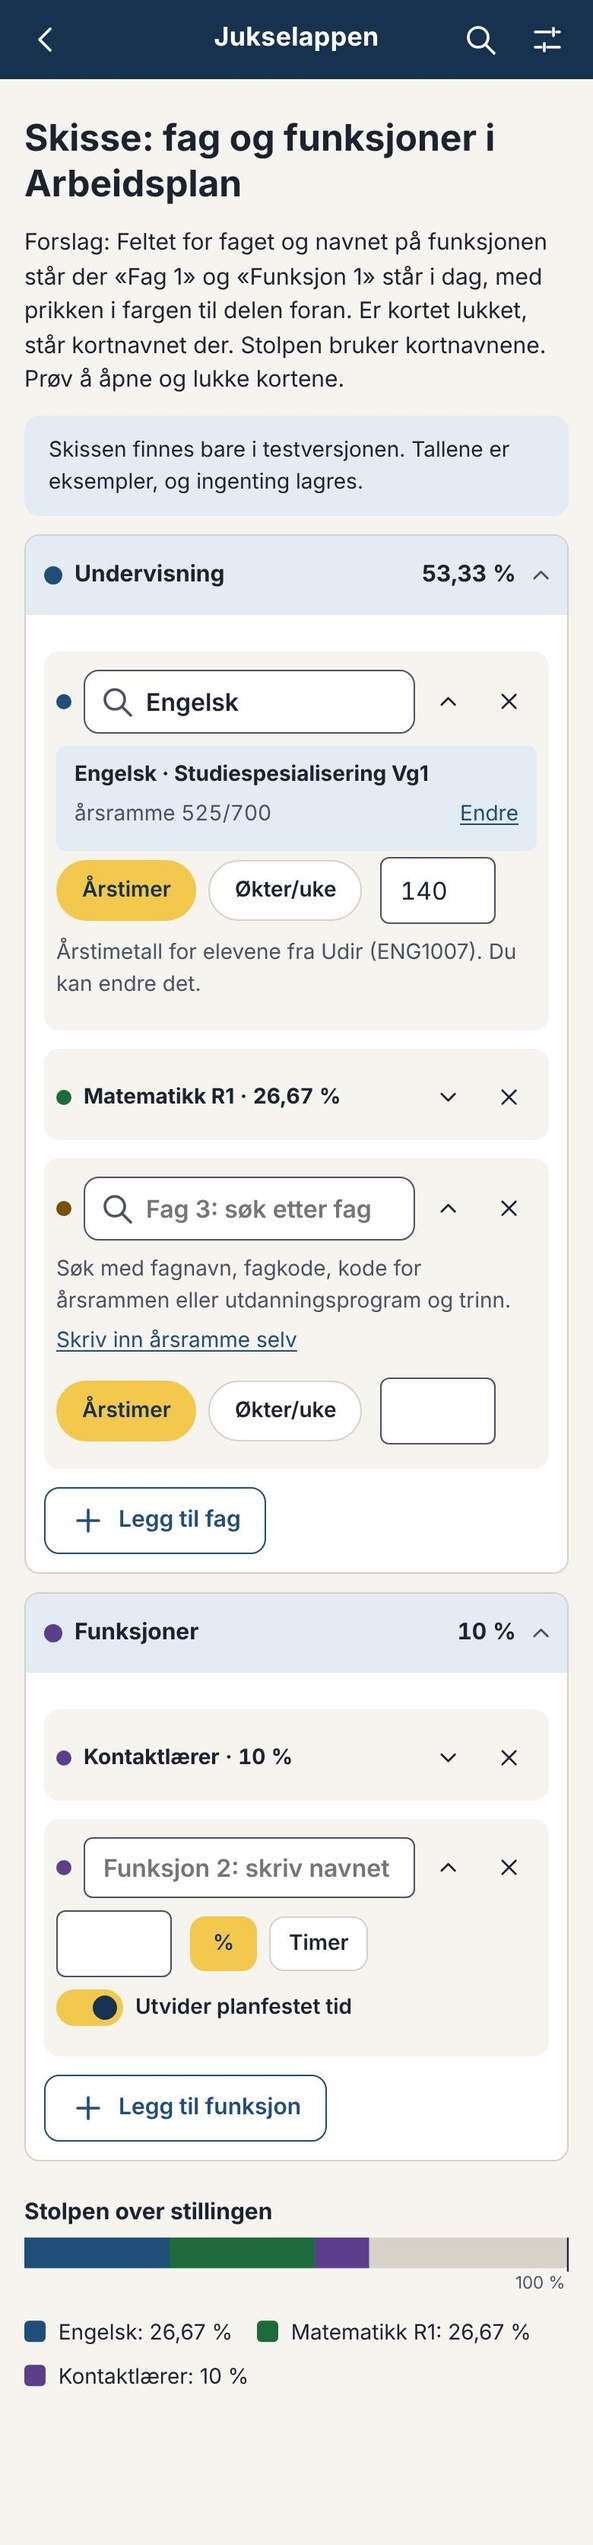
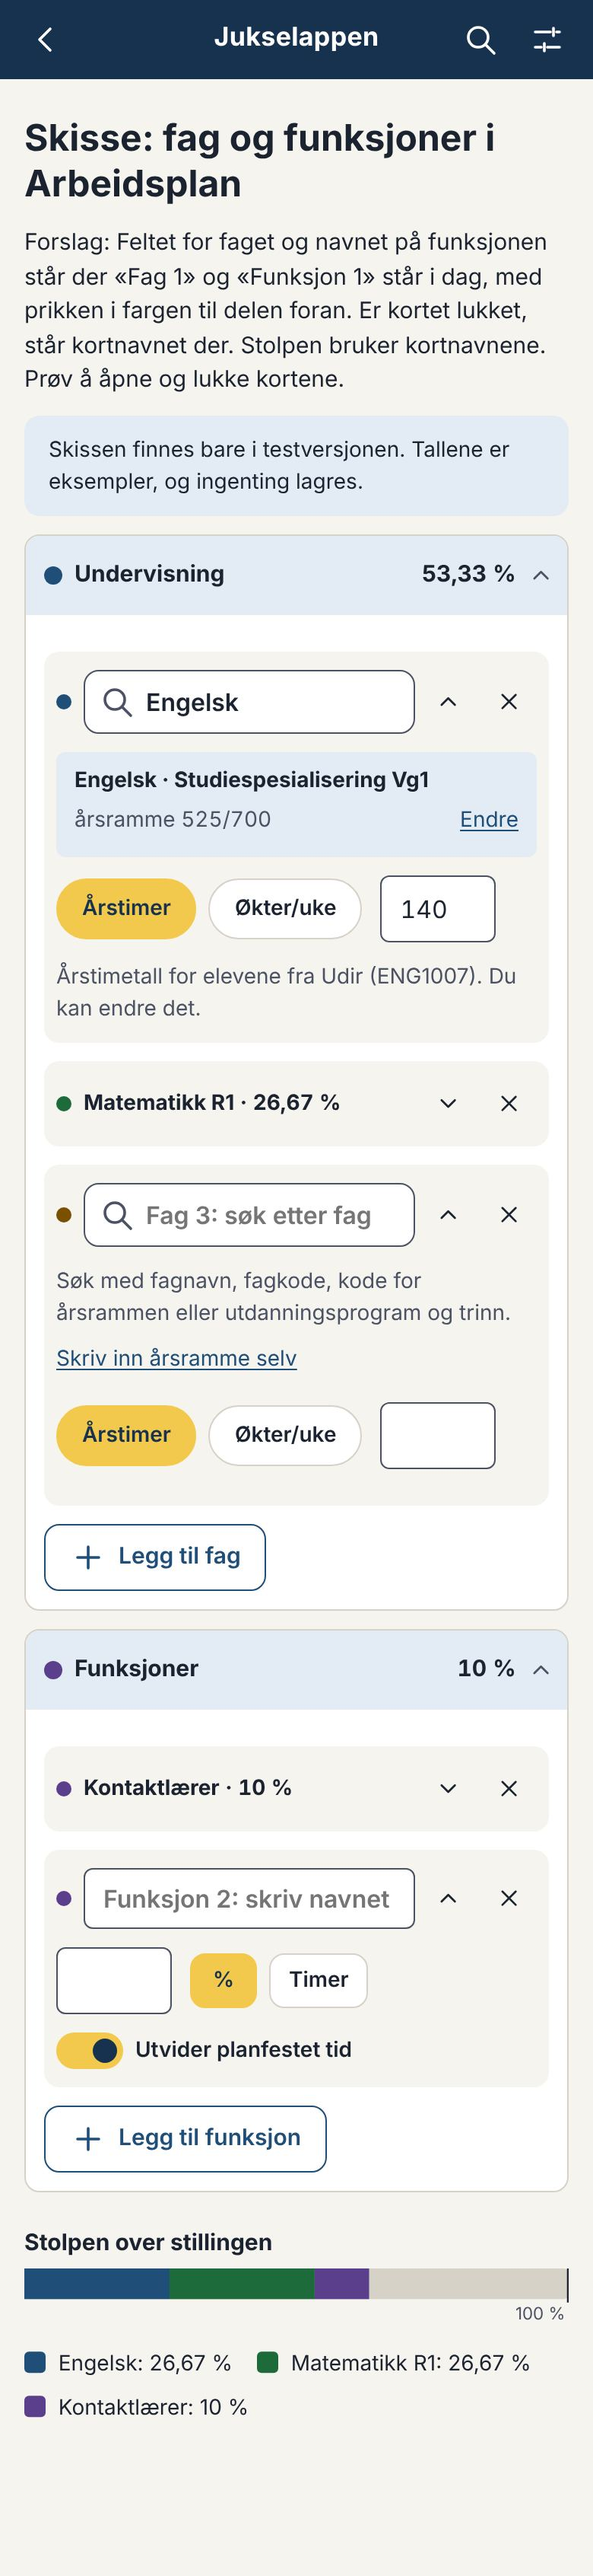
Skisse Arbeidsplan: litt mer luft i fag- og funksjonskortene
Claude-Session: https://claude.ai/code/session_01QHMUWLUUidjCQCMQ66i8Vp

diff --git a/src/styles/skisse-arbeidsplan.css b/src/styles/skisse-arbeidsplan.css
@@ -52,8 +52,32 @@
   height: 2.25rem;
 }
 
+/* Litt mer luft i kortene enn i dag (eier 09.10.2026): under overskriftslinjen, mellom radene og nederst. */
+.skjemadel .skisse-kort:not(.lukket) {
+  padding-bottom: var(--rom-3);
+}
+
+/* Lukket står navnet midt i kortet, med like mye luft over og under. */
+.skjemadel .skisse-kort.lukket {
+  padding-block: var(--rom-2);
+}
+
 .skisse-innhold {
-  margin-top: var(--rom-2);
+  margin-top: var(--rom-3);
+}
+
+.skisse-innhold > .fagvalg,
+.skisse-innhold > .skisse-lenkerad,
+.skisse-innhold > .inndatarad {
+  margin-bottom: var(--rom-3);
+}
+
+.skisse-innhold > .felt-hjelp {
+  margin: 0;
+}
+
+.skisse-innhold > .vippe {
+  margin-bottom: 0;
 }
 
 .skisse-lenkerad {
@@ -61,6 +85,5 @@
   flex-wrap: wrap;
   align-items: baseline;
   justify-content: space-between;
-  gap: 0 var(--rom-3);
-  margin: 0 0 var(--rom-2);
+  gap: var(--rom-1) var(--rom-3);
 }

diff --git a/docs/arbeidsordrer/arbeidsplan-fag-forslag.md b/docs/arbeidsordrer/arbeidsplan-fag-forslag.md
@@ -26,6 +26,8 @@ Skissen finnes bare i testversjonen: https://jukselappen.no/test/#/utvikling/arb
 - **Når et fag er valgt:** fagets kortnavn står i feltet. Under står årsrammen som før, med «Endre». Kortnavnet er faget, og boksen under er årsrammen. Med Matematikk R1 står det for eksempel «Matematikk R1» i feltet og «Informasjonsteknologi · Studiespesialisering Vg2» i boksen.
 - **Lukket:** «Matematikk R1 · 26,67 %», med prikken foran. Et trykk på navnet eller pilen åpner kortet.
 
+**Luft:** Kortene har litt mer luft enn i dag: under feltet øverst, mellom radene og nederst i åpne kort (eier 09.10.2026). Lukkede kort har like mye luft over og under navnet.
+
 **Kortet for en funksjon:** Navnefeltet står øverst, med «Funksjon 2: skriv navnet» grått før det er fylt ut. Lukket står det «Kontaktlærer · 10 %».
 
 **Stolpen:** «Engelsk: 26,67 %», «Matematikk R1: 26,67 %» og «Kontaktlærer: 10 %», i stedet for «Fag 1» og «Fag 2». Funksjonene har navnet sitt i stolpen allerede i dag.
